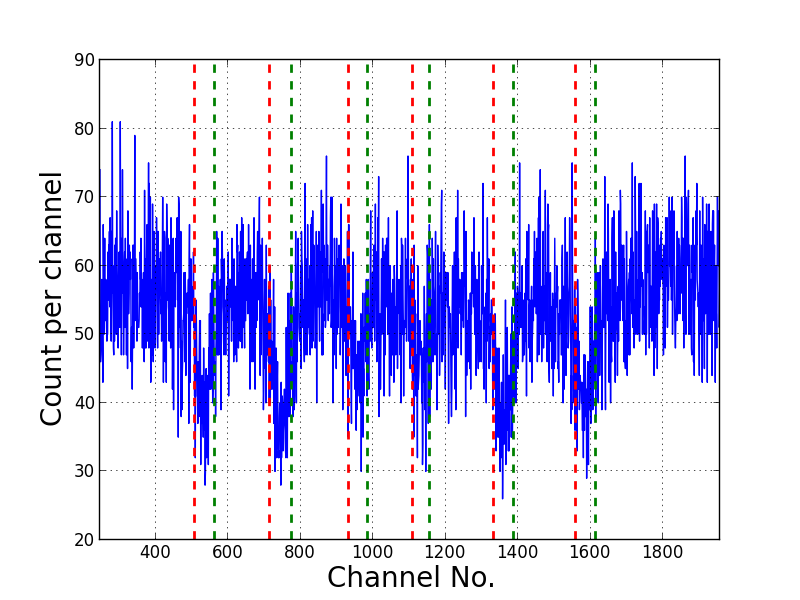
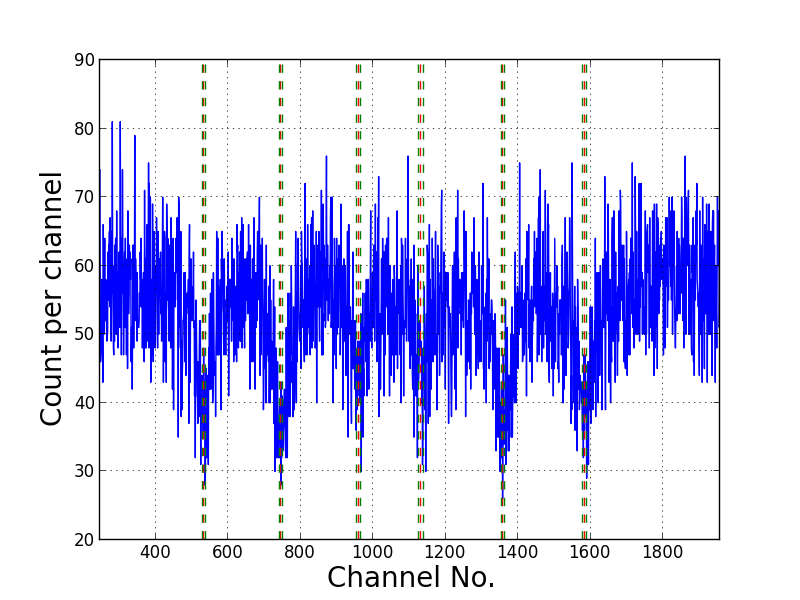
[mossbauer] find exact position

diff --git a/mossbauer/find_peak.py b/mossbauer/find_peak.py
@@ -30,18 +30,24 @@ def find_drop(it, thresh_area, thresh_height):
     min_max = start_v + s
     end_i = start_i
     end_v = start_v
+    zero_i = None
     for i, (v, s) in it:
         if v - s > min_max:
             break
         new_min = v + s
+        if v < 0 and zero_i is None:
+            zero_i = i
         if min_max > new_min:
             min_max = new_min
             end_i = i
             end_v = v
     d_v = start_v - end_v
-    if d_v > thresh_height and (end_i - start_i) * d_v > thresh_area:
-        return start_i, end_i
-    return None, None
+    if (d_v > thresh_height and
+        (end_i - start_i) * d_v > thresh_area and
+        (zero_i - start_i) * 3 > (end_i - zero_i) and
+        (end_i - zero_i) * 3 > (zero_i - start_i)):
+        return start_i, zero_i, end_i
+    return None, None, None
 
 def find_next(it, thresh_area, thresh_height):
     find_start(it)
@@ -76,11 +82,30 @@ def find_width(index, data, hint=None, w=30):
     data = data[_w:-_w]
     max_a = max(a)
     min_a = min(a)
+
+    # magic numbers
     thresh_height = (max_a - min_a) * .4 + max(s)
     thresh_area = w * (max_a - min_a) / 2
-    res = [(start, end) for start, end in
+
+    res = [(start, zero, end) for start, zero, end in
            FindRes(a, s, thresh_area, thresh_height) if start is not None]
     return jlab.Ret('a', 's', 'index', 'data', peaks=res)
+
+def find_exact_pos(zero, index, diff, diff_s):
+    center_i = int(zero - index[0])
+    l = min(center_i, len(diff) - center_i) // 2
+    diff_a = (diff[center_i - l] - diff[center_i + l]) / l / 2
+    for start_i in range(center_i - l, -1, -1):
+        if start_i == 0 or diff[start_i - 1] - diff[start_i] < diff_a:
+            break
+    for end_i in range(center_i + l, len(diff)):
+        if end_i == len(diff) or diff[end_i] - diff[end_i + 1] < diff_a:
+            break
+    fit_res = jlab.fitlin(diff[start_i:end_i], index[start_i:end_i])
+    a = fit_res.a[0]
+    s = sqrt((fit_res.s[0]**2 +
+             (mean(diff_s[start_i:end_i]) * fit_res.a[1])**2) / 3)
+    return jlab.Ret('a', 's')
 
 def find_peak(iname, fig_name):
     index, data = array([(d[0], d[2]) for d in
@@ -91,26 +116,52 @@ def find_peak(iname, fig_name):
         hint = None
     res = find_width(index, data, hint, 30)
 
+    find_exact_pos_data = array([res.index, res.a, res.s])
+    peaks = [find_exact_pos(res.index[z], *find_exact_pos_data[:, s:e])
+             for s, z, e in res.peaks]
+
     fig1 = figure()
     plot(res.index, res.data)
     xlim(res.index[0], res.index[-1])
     xlabel("Channel No.")
     ylabel("Count per channel")
-    for s, e in res.peaks:
-        axvline(res.index[s], color='r', linestyle='dashed', linewidth=2)
-        axvline(res.index[e], color='g', linestyle='dashed', linewidth=2)
+    for peak in peaks:
+        # uncertainty is multiplied by 4 or it can never be seen.
+        axvline(peak.a, color='r', linestyle='dashed')
+        axvline(peak.a + peak.s * 4, color='g', linestyle='dashed')
+        axvline(peak.a - peak.s * 4, color='g', linestyle='dashed')
     grid()
+    # show()
     savefig(fig_name + '_raw.png')
     close()
 
-    # for s, e in res.peaks:
-    #     plot(res.index[[s, e]], res.a[[s, e]], 'r-o')
-    # errorbar(res.index, res.a, res.s)
-    # xlim(res.index[0], res.index[-1])
+    fig2 = figure()
+    errorbar(res.index, res.a, res.s)
+    xlim(res.index[0], res.index[-1])
+    xlabel("Channel No.")
+    for peak in peaks:
+        # uncertainty is multiplied by 4 or it can never be seen.
+        axvline(peak.a, color='r', linestyle='dashed')
+        axvline(peak.a + peak.s * 4, color='g', linestyle='dashed')
+        axvline(peak.a - peak.s * 4, color='g', linestyle='dashed')
+    grid()
     # show()
+    savefig(fig_name + '_diff.png')
+    close()
+
+    return jlab.Ret(peaks=[list(peak['a', 's']) for peak in peaks])
 
 if __name__ == '__main__':
     import sys
-    iname, oname, fig_name = sys.argv[1:]
+    iname = sys.argv[1]
+    if iname.endswith('.py'):
+        base_name = iname[:-3]
+        oname = base_name + '_res.py'
+        fig_name = base_name
+    try:
+        oname = sys.argv[2]
+        fig_name = sys.argv[3]
+    except:
+        pass
     res = find_peak(iname, fig_name)
     print(res)

diff --git a/mossbauer/fix_extra_count.py b/mossbauer/fix_extra_count.py
@@ -11,7 +11,8 @@ def extra_count(fname):
 if __name__ == '__main__':
     import sys
     rate_a, unc_a = zip(*(extra_count(f) for f in sys.argv[2:]))
-    extra_rate = mean(rate_a)
-    extra_unc = sqrt(std(rate_a)**2 / (len(rate_a) - 1) +
-                     mean(array(unc_a)**2) / len(unc_a))
+    weight = 1 / array(unc_a)**2
+    total_weight = sum(weight)
+    extra_rate = sum(rate_a * weight) / total_weight
+    extra_unc = len(weight) / total_weight
     jlab.save_pyfile(jlab.Ret('extra_rate', 'extra_unc'), sys.argv[1])

diff --git a/mossbauer/extra_count/res.py b/mossbauer/extra_count/res.py
@@ -1,2 +1,2 @@
-extra_unc = 0.044943423968008281
-extra_rate = 0.34745880847368427
+extra_unc = 0.0013677594271690266
+extra_rate = 0.33736853259031396
